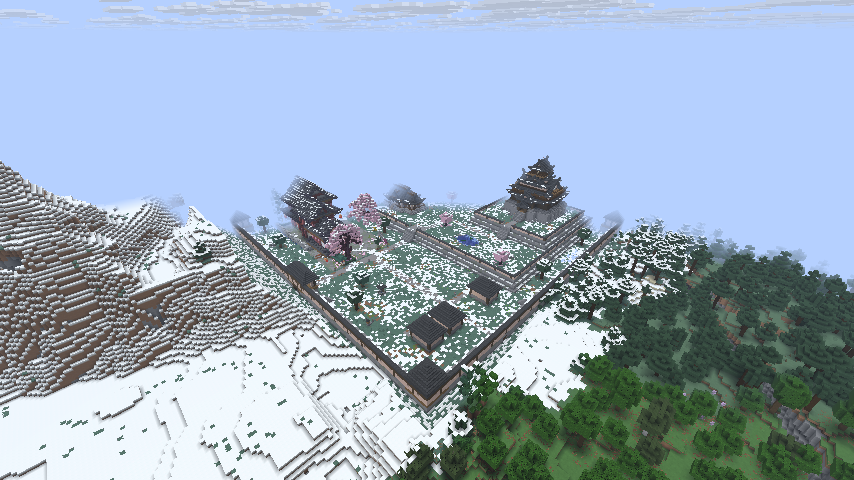
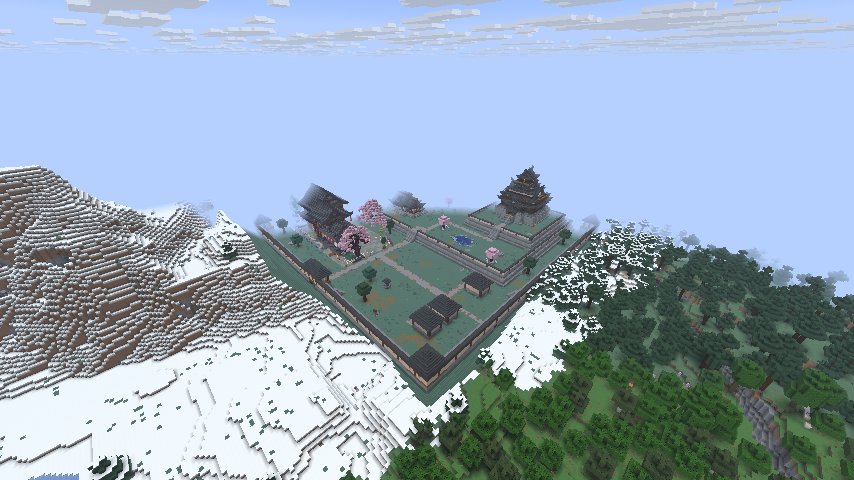
Terrain mode screenshots: before, fit, replace and exact on the same hills
Claude-Session: https://claude.ai/code/session_01UTzsXzEYewVfCt7gXjRqgu

diff --git a/docs/TESTING.md b/docs/TESTING.md
@@ -119,7 +119,7 @@ Four ready-made compounds ship in the mod (`data/emergentstealth/emergentstealth
 | X.11 | Castle walls | `/time set noon`, fly along the wall walk | One ashigaru paces the north and east walls through the towers to the gate house; a samurai stands in the gate house; at night (`/time set 18000`) a second walks the south and west walls. Every tower and the gate house can be walked through from the walk |
 | X.12 | Castle levels | Walk from the gate up the main stair, across the ninomaru and up to the keep | Gate road, ninomaru and honmaru patrols each keep to their level; the samurai on the keep steps and the taisho inside; the daimyo in the residence. `/es zone at` reads `honmaru` (hostile) at the keep and `ninomaru` only at night |
 | X.13 | Castle lanterns | Snuff the gate road and stair-head lanterns, `/time set 11000` | The labourer walks the gate road, the storehouses, up both stairs to the honmaru, relighting as it goes |
-| X.14 | Fit to hills (screenshot: [fit](screenshots/structures/takamori_fit_hills.png)) | In a normal world with hills, stand on the ground and `/es compound place emergentstealth:examples/takamori_castle` (fit is the default) | "… terrain fit". Hills inside the walls are cut away and hollows filled, so the bailey is level and nothing floats; trees inside are gone. Round the outside, the ground slopes one block per block from the castle's ground line back to the hills (a stepped cutting into a hillside, an embankment over a dip); beyond 16 blocks out the world is untouched. Grass, sand or snow on the new slopes matches the ground it replaced |
+| X.14 | Fit to hills (screenshots: [fit](screenshots/structures/takamori_fit_hills.png); every mode against the untouched hills from the [south-east](screenshots/structures/terrain_modes_se.png) and the [south-west](screenshots/structures/terrain_modes_sw.png)) | In a normal world with hills, stand on the ground and `/es compound place emergentstealth:examples/takamori_castle` (fit is the default) | "… terrain fit". Hills inside the walls are cut away and hollows filled, so the bailey is level and nothing floats; trees inside are gone. Round the outside, the ground slopes one block per block from the castle's ground line back to the hills (a stepped cutting into a hillside, an embankment over a dip); beyond 16 blocks out the world is untouched. Grass, sand or snow on the new slopes matches the ground it replaced |
 | X.15 | Replace | `/es structure undo`, then the same with `~ ~ ~ none none replace` | "… terrain replace". The castle plus a 16-block ring round it are flattened to its ground line; the hills stop at the ring's edge as a straight cut |
 | X.16 | Exact | The same with `exact` | "… terrain exact": only the templates, as before the terrain pass (on a slope, hills poke through and the foundation shows) |
 | X.17 | Undo the fit | `/es structure undo` after X.14 | The castle, its guards and every cut, fill and slope are gone; the hills are back as they were |

diff --git a/docs/design/33-compound-terrain.md b/docs/design/33-compound-terrain.md
@@ -60,7 +60,7 @@ The compound generator picks *where* and *how*: sample the surface across the fo
    - New surface keeps the world's own top block (grass, sand, snow block, gravel, stone); fill is dirt for 3 blocks, then stone. Blocks are set without neighbour updates, like templates.
    - JSON: `"terrain": {"mode": "fit", "blend": 16, "depth": 24}`, all optional (defaults shown; `blend` 0 to 32, `depth` 0 to 64). The command's mode overrides the file's.
    - The undo snapshot covers the footprint, the ring and every height touched, so `/es structure undo` restores the hills (the undo limit rose to 8 million blocks for this). GameTest `compounds/terrain` places on a built hillside in each mode.
-   - Seen in the real client: the castle on a snowy hillside cuts in with stepped 1:1 slopes ([screenshot](../screenshots/structures/takamori_fit_hills.png)). Known: snow layers on reshaped columns are removed, and the site's own green grass shows in snowy biomes.
+   - Seen in the real client: the castle on a snowy hillside cuts in with stepped 1:1 slopes ([screenshot](../screenshots/structures/takamori_fit_hills.png); the three modes side by side against the untouched hills: [from the south-east](../screenshots/structures/terrain_modes_se.png), [from the south-west](../screenshots/structures/terrain_modes_sw.png); undo put the hills back exactly). Known: snow layers on reshaped columns are removed, and the site's own green grass shows in snowy biomes.
 3. **Worldgen (S15):** our own structure type, `emergentstealth:compound`, that places a compound like the command does:
    - choose the spot by sampling the heightmap over the footprint (reject steep or underwater spots);
    - use the terrain adaptation in C (pieces carry each module's ground as their delta) where it looks right, and the same `TerrainFit` pass for the rest;
